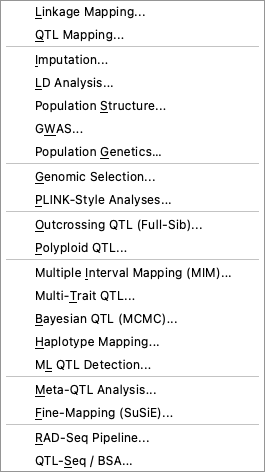
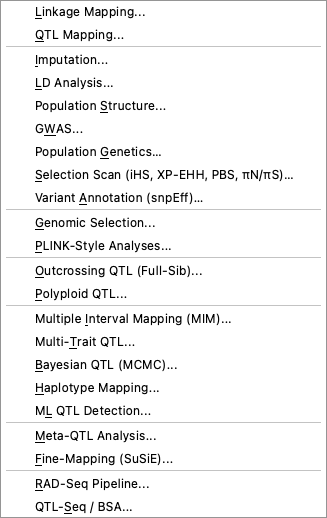
Update tutorial site from qtlmapper3 7c70955

Changed region(s): [[0.0, 0.0, 0.966, 1.0], [0.9962, 0.0, 1.0, 1.0]]

diff --git a/index.html b/index.html
@@ -39,11 +39,11 @@ footer{border-top:1px solid var(--line);padding:24px 16px;text-align:center;colo
 @media (max-width:820px){header{grid-template-columns:1fr;padding-top:32px}}
 </style></head><body>
 <nav><div class="in"><img src="img/logo.svg" alt=""><b>QTLMapper3 <small style="color:var(--muted);font-weight:400">v3.1.0</small></b>
-<a href="#features">Features</a><a href="#install">Install</a><a href="#gui">GUI tutorial</a><a href="#cli">Command line</a><a href="#cli-popgen">Popgen</a><a href="#figures">Figures</a><a href="#validation">Validation</a><a href="https://github.com/ank-man/qtlmapper3">GitHub</a></div></nav>
+<a href="#features">Features</a><a href="#install">Install</a><a href="#gui">GUI tutorial</a><a href="#cli">Command line</a><a href="#cli-popgen">Popgen</a><a href="#cli-selection">Selection</a><a href="#figures">Figures</a><a href="#validation">Validation</a><a href="https://github.com/ank-man/qtlmapper3">GitHub</a></div></nav>
 <header><div>
 <img src="img/logo.svg" alt="" width="72" height="72">
 <h1>QTLMapper<span>3</span></h1>
-<p class="lead">QTL mapping, GWAS, genomic prediction, population genetics, meta-QTL analysis and variant annotation in one fast, validated package, with a desktop app and a scriptable command line.</p>
+<p class="lead">QTL mapping, GWAS, genomic prediction, population genetics, selection scans, meta-QTL analysis and variant annotation in one fast, validated package, with a desktop app and a scriptable command line.</p>
 <div class="btns"><a class="p" href="https://github.com/ank-man/qtlmapper3/releases/latest">Download</a><a class="s" href="#gui">GUI tutorial</a><a class="s" href="#cli">CLI tutorial</a></div>
 </div><div class="hero"><img src="screenshots/07_qtl_results_tab.png" alt="QTLMapper3 desktop app showing a CIM genome scan"></div></header>
 <main>
@@ -54,6 +54,7 @@ footer{border-top:1px solid var(--line);padding:24px 16px;text-align:center;colo
 <div class="card"><h4>GWAS</h4><p>GLM, MLM (P3D/EMMAX) with LOCO kinship and PCs, and MLMM with mBonf/EBIC model selection.</p></div>
 <div class="card"><h4>Genomic prediction</h4><p>GBLUP, RR-BLUP, A/D/epistatic/RKHS kernels, multi-environment G×E, BayesA/B/C, BRR, Bayesian LASSO, ML models, CV0/CV1/CV2/CV00.</p></div>
 <div class="card"><h4>Population genetics</h4><p>PCA, trees, ADMIXTURE-model ancestry with CV, F<sub>ST</sub>, π, Tajima's D, LD decay and blocks, maps of ancestry pies.</p></div>
+<div class="card"><h4>Selection scans</h4><p>iHS, nSL, XP-EHH, H12, PBS and PCAdapt for positive selection; πN/πS, SFS and load for purifying selection; Tajima's D and Fay &amp; Wu's H.</p></div>
 <div class="card"><h4>Meta-QTL</h4><p>Map projection, consensus maps and meta-analysis across studies with five model-selection criteria and heterogeneity statistics.</p></div>
 <div class="card"><h4>Variant annotation</h4><p>snpEff from the command line: effect tables, impact summaries and annotated GWAS/QTL hits with nearest genes.</p></div>
 <div class="card"><h4>Validated</h4><p>Results checked against R/qtl, R/qtl2, rrBLUP, sommer, BGLR and scikit-allel; the checks run in the test suite.</p></div>
@@ -183,7 +184,20 @@ Valley    0.2002  0.2039  0.2078  0.0000  0.1558    0.1792   0.0809
 Ridge     0.1997  0.2089  0.2083  0.1558  0.0000    0.1755   0.0840
 Highland  0.2205  0.2254  0.2245  0.1792  0.1755    0.0000   0.0814
 Admixed   0.0745  0.0855  0.0799  0.0809  0.0840    0.0814   0.0000
-✓ popgen done in 73.63 s → results/popgen</span></pre><figure class=""><a href="img/popgen/admixture.png"><img loading="lazy" src="img/popgen/admixture.png" alt="Ancestry for K = 2–6; cross-validation selects K = 6, the number of simulated source populations."></a><figcaption>Ancestry for K = 2–6; cross-validation selects K = 6, the number of simulated source populations.</figcaption></figure><figure class=""><a href="img/popgen/pca.png"><img loading="lazy" src="img/popgen/pca.png" alt="PCA with 95 % ellipses and scree plot."></a><figcaption>PCA with 95 % ellipses and scree plot.</figcaption></figure><figure class=""><a href="img/popgen/ancestry_pies.png"><img loading="lazy" src="img/popgen/ancestry_pies.png" alt="Mean ancestry per population on the sampling map (makePopMap style)."></a><figcaption>Mean ancestry per population on the sampling map (makePopMap style).</figcaption></figure><figure class=""><a href="img/popgen/tree_circular.png"><img loading="lazy" src="img/popgen/tree_circular.png" alt="Neighbour-joining tree of individuals (IBS distance)."></a><figcaption>Neighbour-joining tree of individuals (IBS distance).</figcaption></figure><figure class=""><a href="img/popgen/fst_nei.png"><img loading="lazy" src="img/popgen/fst_nei.png" alt="Pairwise Hudson F&lt;sub&gt;ST&lt;/sub&gt; and Nei&#x27;s distance."></a><figcaption>Pairwise Hudson F<sub>ST</sub> and Nei's distance.</figcaption></figure><figure class=""><a href="img/popgen/diversity_windows.png"><img loading="lazy" src="img/popgen/diversity_windows.png" alt="π, θ&lt;sub&gt;W&lt;/sub&gt;, Tajima&#x27;s D and F&lt;sub&gt;ST&lt;/sub&gt; in windows: the sweep on chromosome 2 stands out."></a><figcaption>π, θ<sub>W</sub>, Tajima's D and F<sub>ST</sub> in windows: the sweep on chromosome 2 stands out.</figcaption></figure><figure class=""><a href="img/popgen/popgen_circos.png"><img loading="lazy" src="img/popgen/popgen_circos.png" alt="Circular overview of the windowed statistics (PopGenCircos style)."></a><figcaption>Circular overview of the windowed statistics (PopGenCircos style).</figcaption></figure><figure class=""><a href="img/popgen/ld_decay.png"><img loading="lazy" src="img/popgen/ld_decay.png" alt="LD decay with exponential fit (PopLDdecay style)."></a><figcaption>LD decay with exponential fit (PopLDdecay style).</figcaption></figure><h3>Meta-QTL analysis</h3><p>BioMercator/MetaQTL workflow: QTL from different studies are projected onto a consensus map (piecewise homothetic through common markers, order conflicts removed), clustered by a Gaussian mixture with known variances, and the number of meta-QTL chosen by AIC, AICc, AIC3, BIC or AWE. Each meta-QTL comes with Cochran's Q and I², outlier flags and an optional leave-one-study-out check. Demo: <code>data/demo_metaqtl</code> (six simulated studies, eight true meta-QTL).</p><pre class="term"><span class="prompt">$ qtlmapper3 metaqtl --qtl data/demo_metaqtl/qtl.csv --maps data/demo_metaqtl/maps --consensus data/demo_metaqtl/consensus_map.csv --loso \
+✓ popgen done in 73.63 s → results/popgen</span></pre><figure class=""><a href="img/popgen/admixture.png"><img loading="lazy" src="img/popgen/admixture.png" alt="Ancestry for K = 2–6; cross-validation selects K = 6, the number of simulated source populations."></a><figcaption>Ancestry for K = 2–6; cross-validation selects K = 6, the number of simulated source populations.</figcaption></figure><figure class=""><a href="img/popgen/pca.png"><img loading="lazy" src="img/popgen/pca.png" alt="PCA with 95 % ellipses and scree plot."></a><figcaption>PCA with 95 % ellipses and scree plot.</figcaption></figure><figure class=""><a href="img/popgen/ancestry_pies.png"><img loading="lazy" src="img/popgen/ancestry_pies.png" alt="Mean ancestry per population on the sampling map (makePopMap style)."></a><figcaption>Mean ancestry per population on the sampling map (makePopMap style).</figcaption></figure><figure class=""><a href="img/popgen/tree_circular.png"><img loading="lazy" src="img/popgen/tree_circular.png" alt="Neighbour-joining tree of individuals (IBS distance)."></a><figcaption>Neighbour-joining tree of individuals (IBS distance).</figcaption></figure><figure class=""><a href="img/popgen/fst_nei.png"><img loading="lazy" src="img/popgen/fst_nei.png" alt="Pairwise Hudson F&lt;sub&gt;ST&lt;/sub&gt; and Nei&#x27;s distance."></a><figcaption>Pairwise Hudson F<sub>ST</sub> and Nei's distance.</figcaption></figure><figure class=""><a href="img/popgen/diversity_windows.png"><img loading="lazy" src="img/popgen/diversity_windows.png" alt="π, θ&lt;sub&gt;W&lt;/sub&gt;, Tajima&#x27;s D and F&lt;sub&gt;ST&lt;/sub&gt; in windows: the sweep on chromosome 2 stands out."></a><figcaption>π, θ<sub>W</sub>, Tajima's D and F<sub>ST</sub> in windows: the sweep on chromosome 2 stands out.</figcaption></figure><figure class=""><a href="img/popgen/popgen_circos.png"><img loading="lazy" src="img/popgen/popgen_circos.png" alt="Circular overview of the windowed statistics (PopGenCircos style)."></a><figcaption>Circular overview of the windowed statistics (PopGenCircos style).</figcaption></figure><figure class=""><a href="img/popgen/ld_decay.png"><img loading="lazy" src="img/popgen/ld_decay.png" alt="LD decay with exponential fit (PopLDdecay style)."></a><figcaption>LD decay with exponential fit (PopLDdecay style).</figcaption></figure><h3 id="cli-selection">Selection scans</h3><p>Positive selection (iHS, nSL, XP-EHH, Garud H12/G12, PBS, PCAdapt-style outliers), purifying selection (πN/πS, site-frequency spectra by functional class, genetic load) and balancing selection or neutrality (Tajima's D, θ<sub>π</sub>, θ<sub>W</sub>, Fay &amp; Wu's H) in one run. Windows that are outliers for at least two statistics are reported as candidate regions. The haplotype statistics match scikit-allel to machine precision. Demo: <code>data/demo_selection</code> (simulated: a partial sweep in North on chr1, balancing selection on chr2, purifying selection on missense and loss-of-function sites).</p><pre class="term"><span class="prompt">$ qtlmapper3 selection --vcf data/demo_selection/selection.vcf.gz -p data/demo_selection/populations.csv --focal North --contrast South \
+    -o results/selection</span>
+<span class="out">[selection] 180 individuals, 4000 SNPs, populations [&#x27;North&#x27;, &#x27;South&#x27;, &#x27;East&#x27;]; phased; focal North vs South
+   PCAdapt genomic inflation λ = 0.98
+   candidate regions (top 1 % in ≥ 2 statistics): 1
+chrom   start    stop                 statistics  n_statistics
+ chr1 2610746 3212189 H12;PBS;PCAdapt;XP-EHH;iHS             5
+   highest Tajima&#x27;s D windows (North, balancing-selection candidates):
+chrom  start_bp  stop_bp  tajima_d_North
+ chr2   2850396  3195239        4.761094
+ chr2   2733244  3026649        3.982480
+ chr2   3028311  3355411        3.833858
+   purifying selection: North πN/πS 0.55, South πN/πS 0.55, East πN/πS 0.57
+✓ selection done in 5.1 s → results/selection</span></pre><figure class=""><a href="img/selection/selection_scan.png"><img loading="lazy" src="img/selection/selection_scan.png" alt="Genome scan: iHS, XP-EHH, H12, PBS and PCAdapt agree on the sweep at chr1:3 Mb; Tajima&#x27;s D marks the balanced region on chr2."></a><figcaption>Genome scan: iHS, XP-EHH, H12, PBS and PCAdapt agree on the sweep at chr1:3 Mb; Tajima's D marks the balanced region on chr2.</figcaption></figure><figure class=""><a href="img/selection/ehh_decay.png"><img loading="lazy" src="img/selection/ehh_decay.png" alt="EHH decay around the top XP-EHH SNP: the swept allele sits on a long haplotype."></a><figcaption>EHH decay around the top XP-EHH SNP: the swept allele sits on a long haplotype.</figcaption></figure><figure class=""><a href="img/selection/purifying.png"><img loading="lazy" src="img/selection/purifying.png" alt="Purifying selection: missense and LoF variants are rarer than synonymous ones; πN/πS ≈ 0.55; derived missense load per individual."></a><figcaption>Purifying selection: missense and LoF variants are rarer than synonymous ones; πN/πS ≈ 0.55; derived missense load per individual.</figcaption></figure><h3>Meta-QTL analysis</h3><p>BioMercator/MetaQTL workflow: QTL from different studies are projected onto a consensus map (piecewise homothetic through common markers, order conflicts removed), clustered by a Gaussian mixture with known variances, and the number of meta-QTL chosen by AIC, AICc, AIC3, BIC or AWE. Each meta-QTL comes with Cochran's Q and I², outlier flags and an optional leave-one-study-out check. Demo: <code>data/demo_metaqtl</code> (six simulated studies, eight true meta-QTL).</p><pre class="term"><span class="prompt">$ qtlmapper3 metaqtl --qtl data/demo_metaqtl/qtl.csv --maps data/demo_metaqtl/maps --consensus data/demo_metaqtl/consensus_map.csv --loso \
     -o results/metaqtl</span>
 <span class="out">[metaqtl] 36 QTL, 6 studies, 5 chromosomes
 MetaQTL  Position_cM  CI_Lower  CI_Upper  N_Source_QTL    I2      Q_p                 Traits
@@ -209,7 +223,7 @@ qtlmapper3 popgen | metaqtl | annotate --help
 qtlmapper3 check-update        # look for a newer release</span></pre></section>
 <section id="figures"><h2>Visualization Studio</h2><p>Twenty-one figure types, each drawn from your loaded data or stored results and exportable to PNG, PDF, SVG or TIFF. Layouts follow circos, LinkageMapView, karyoploteR, VIEWpoly, R/qtl2, LocusZoom and qtlPlots.</p><div class="gallery"><figure class="g"><a href="img/studio/Genotype_matrix.png"><img loading="lazy" src="img/studio/Genotype_matrix.png" alt="Genotype matrix"></a><figcaption>Genotype matrix</figcaption></figure><figure class="g"><a href="img/studio/Data_quality_missingness_segregation.png"><img loading="lazy" src="img/studio/Data_quality_missingness_segregation.png" alt="Data quality (missingness, segregation)"></a><figcaption>Data quality (missingness, segregation)</figcaption></figure><figure class="g"><a href="img/studio/Phenotype_distributions.png"><img loading="lazy" src="img/studio/Phenotype_distributions.png" alt="Phenotype distributions"></a><figcaption>Phenotype distributions</figcaption></figure><figure class="g"><a href="img/studio/Trait_correlations.png"><img loading="lazy" src="img/studio/Trait_correlations.png" alt="Trait correlations"></a><figcaption>Trait correlations</figcaption></figure><figure class="g"><a href="img/studio/Marker_LD_r_heatmap.png"><img loading="lazy" src="img/studio/Marker_LD_r_heatmap.png" alt="Marker LD (r²) heatmap"></a><figcaption>Marker LD (r²) heatmap</figcaption></figure><figure class="g"><a href="img/studio/Circos_genome_overview.png"><img loading="lazy" src="img/studio/Circos_genome_overview.png" alt="Circos genome overview"></a><figcaption>Circos genome overview</figcaption></figure><figure class="g"><a href="img/studio/Karyotype_with_QTL_GWAS_hits.png"><img loading="lazy" src="img/studio/Karyotype_with_QTL_GWAS_hits.png" alt="Karyotype with QTL &amp; GWAS hits"></a><figcaption>Karyotype with QTL & GWAS hits</figcaption></figure><figure class="g"><a href="img/studio/Marker_density.png"><img loading="lazy" src="img/studio/Marker_density.png" alt="Marker density"></a><figcaption>Marker density</figcaption></figure><figure class="g"><a href="img/studio/Linkage_map_QTL_intervals.png"><img loading="lazy" src="img/studio/Linkage_map_QTL_intervals.png" alt="Linkage map (+ QTL intervals)"></a><figcaption>Linkage map (+ QTL intervals)</figcaption></figure><figure class="g"><a href="img/studio/LOD_profile.png"><img loading="lazy" src="img/studio/LOD_profile.png" alt="LOD profile"></a><figcaption>LOD profile</figcaption></figure><figure class="g"><a href="img/studio/QTL_effect_plot.png"><img loading="lazy" src="img/studio/QTL_effect_plot.png" alt="QTL effect plot"></a><figcaption>QTL effect plot</figcaption></figure><figure class="g"><a href="img/studio/Linkage_map_chart_LinkageMapView_style.png"><img loading="lazy" src="img/studio/Linkage_map_chart_LinkageMapView_style.png" alt="Linkage map chart (LinkageMapView style)"></a><figcaption>Linkage map chart (LinkageMapView style)</figcaption></figure><figure class="g"><a href="img/studio/Genotype_probabilities_VIEWpoly_style.png"><img loading="lazy" src="img/studio/Genotype_probabilities_VIEWpoly_style.png" alt="Genotype probabilities (VIEWpoly style)"></a><figcaption>Genotype probabilities (VIEWpoly style)</figcaption></figure><figure class="g"><a href="img/studio/QTL_effects_along_chromosome.png"><img loading="lazy" src="img/studio/QTL_effects_along_chromosome.png" alt="QTL effects along chromosome"></a><figcaption>QTL effects along chromosome</figcaption></figure><figure class="g"><a href="img/studio/Multi_trait_LOD_heatmap.png"><img loading="lazy" src="img/studio/Multi_trait_LOD_heatmap.png" alt="Multi-trait LOD heatmap"></a><figcaption>Multi-trait LOD heatmap</figcaption></figure><figure class="g"><a href="img/studio/QTL_summary_hotspots.png"><img loading="lazy" src="img/studio/QTL_summary_hotspots.png" alt="QTL summary &amp; hotspots"></a><figcaption>QTL summary & hotspots</figcaption></figure><figure class="g"><a href="img/studio/Manhattan_QQ.png"><img loading="lazy" src="img/studio/Manhattan_QQ.png" alt="Manhattan + QQ"></a><figcaption>Manhattan + QQ</figcaption></figure><figure class="g"><a href="img/studio/Genomic_prediction_accuracy.png"><img loading="lazy" src="img/studio/Genomic_prediction_accuracy.png" alt="Genomic prediction accuracy"></a><figcaption>Genomic prediction accuracy</figcaption></figure><figure class="g"><a href="img/studio/Regional_association_LocusZoom_style.png"><img loading="lazy" src="img/studio/Regional_association_LocusZoom_style.png" alt="Regional association (LocusZoom style)"></a><figcaption>Regional association (LocusZoom style)</figcaption></figure><figure class="g"><a href="img/studio/Miami_plot.png"><img loading="lazy" src="img/studio/Miami_plot.png" alt="Miami plot"></a><figcaption>Miami plot</figcaption></figure><figure class="g"><a href="img/studio/Circular_Manhattan.png"><img loading="lazy" src="img/studio/Circular_Manhattan.png" alt="Circular Manhattan"></a><figcaption>Circular Manhattan</figcaption></figure></div></section>
 <section id="validation"><h2>Validation and speed</h2>
-<h3>Agreement with reference software</h3><div class="tablewrap"><table><thead><tr><th>Quantity</th><th>Reference</th><th>Max. difference</th></tr></thead><tbody><tr><td>Genotype probabilities</td><td>R/qtl2 calc_genoprob</td><td>≤ 3e-12</td></tr><tr><td>Haley–Knott LOD</td><td>R/qtl2 scan1</td><td>≤ 5e-12</td></tr><tr><td>LMM-LOCO LOD, heritability</td><td>R/qtl2 scan1 / est_herit</td><td>≤ 4e-7</td></tr><tr><td>EM interval mapping</td><td>R/qtl scanone(em)</td><td>≤ 5e-7</td></tr><tr><td>Two-QTL scan</td><td>R/qtl scantwo(hk)</td><td>exact on full-rank pairs</td></tr><tr><td>Stepwise model, pLOD, effects</td><td>R/qtl stepwiseqtl / fitqtl</td><td>identical</td></tr><tr><td>CIM</td><td>R/qtl cim</td><td>≤ 7e-12</td></tr><tr><td>MLM GWAS (P3D)</td><td>rrBLUP GWAS</td><td>5e-5</td></tr><tr><td>GBLUP / RR-BLUP</td><td>rrBLUP mixed.solve</td><td>2.8e-6 / 3.9e-7</td></tr><tr><td>A + A#A multi-kernel</td><td>sommer mmer</td><td>6e-5 (relative)</td></tr><tr><td>BRR, BayesA/B/C, Bayesian LASSO</td><td>BGLR</td><td>GEBV r ≥ 0.993</td></tr><tr><td>Hudson / Weir–Cockerham FST, π, Tajima's D</td><td>scikit-allel</td><td>≤ 1e-15 (exact)</td></tr><tr><td>ADMIXTURE model, NJ tree</td><td>simulated truth</td><td>Q r = 0.999; CV picks true K</td></tr><tr><td>Meta-QTL positions</td><td>simulated truth (8 meta-QTL)</td><td>all recovered; 95 % CI coverage nominal</td></tr></tbody></table></div>
+<h3>Agreement with reference software</h3><div class="tablewrap"><table><thead><tr><th>Quantity</th><th>Reference</th><th>Max. difference</th></tr></thead><tbody><tr><td>Genotype probabilities</td><td>R/qtl2 calc_genoprob</td><td>≤ 3e-12</td></tr><tr><td>Haley–Knott LOD</td><td>R/qtl2 scan1</td><td>≤ 5e-12</td></tr><tr><td>LMM-LOCO LOD, heritability</td><td>R/qtl2 scan1 / est_herit</td><td>≤ 4e-7</td></tr><tr><td>EM interval mapping</td><td>R/qtl scanone(em)</td><td>≤ 5e-7</td></tr><tr><td>Two-QTL scan</td><td>R/qtl scantwo(hk)</td><td>exact on full-rank pairs</td></tr><tr><td>Stepwise model, pLOD, effects</td><td>R/qtl stepwiseqtl / fitqtl</td><td>identical</td></tr><tr><td>CIM</td><td>R/qtl cim</td><td>≤ 7e-12</td></tr><tr><td>MLM GWAS (P3D)</td><td>rrBLUP GWAS</td><td>5e-5</td></tr><tr><td>GBLUP / RR-BLUP</td><td>rrBLUP mixed.solve</td><td>2.8e-6 / 3.9e-7</td></tr><tr><td>A + A#A multi-kernel</td><td>sommer mmer</td><td>6e-5 (relative)</td></tr><tr><td>BRR, BayesA/B/C, Bayesian LASSO</td><td>BGLR</td><td>GEBV r ≥ 0.993</td></tr><tr><td>Hudson / Weir–Cockerham FST, π, Tajima's D</td><td>scikit-allel</td><td>≤ 1e-15 (exact)</td></tr><tr><td>ADMIXTURE model, NJ tree</td><td>simulated truth</td><td>Q r = 0.999; CV picks true K</td></tr><tr><td>iHS, nSL, XP-EHH, Garud H, PBS</td><td>scikit-allel</td><td>≤ 1e-15 (exact)</td></tr><tr><td>Meta-QTL positions</td><td>simulated truth (8 meta-QTL)</td><td>all recovered; 95 % CI coverage nominal</td></tr></tbody></table></div>
 <h3>Speed</h3><p>Apple M5; QTLMapper3 on 10 threads, reference tools as published (single core). Full tables in <a href="benchmarks.html">the benchmark page</a>.</p>
 <div class="tablewrap"><table><thead><tr><th>Task</th><th>QTLMapper3</th><th>Reference</th><th>Speed-up</th></tr></thead><tbody><tr><td>1,000 permutations (1,000 × 5,000 F2)</td><td>0.56 s</td><td>17.4 s</td><td>31×</td></tr><tr><td>LMM-LOCO scan (1,000 × 5,000)</td><td>1.31 s</td><td>6.89 s</td><td>5.3×</td></tr><tr><td>Haley–Knott scan (1,000 × 5,000)</td><td>0.13 s</td><td>0.20 s</td><td>1.5×</td></tr><tr><td>GBLUP (599 × 1,279 wheat)</td><td>0.034 s</td><td>0.23 s (rrBLUP)</td><td>7×</td></tr><tr><td>A + A#A AI-REML</td><td>0.15 s</td><td>0.56 s (sommer)</td><td>4×</td></tr><tr><td>BayesB, 6,000 iterations</td><td>2.85 s</td><td>3.63 s (BGLR)</td><td>1.3×</td></tr></tbody></table></div></section>
 </main>
